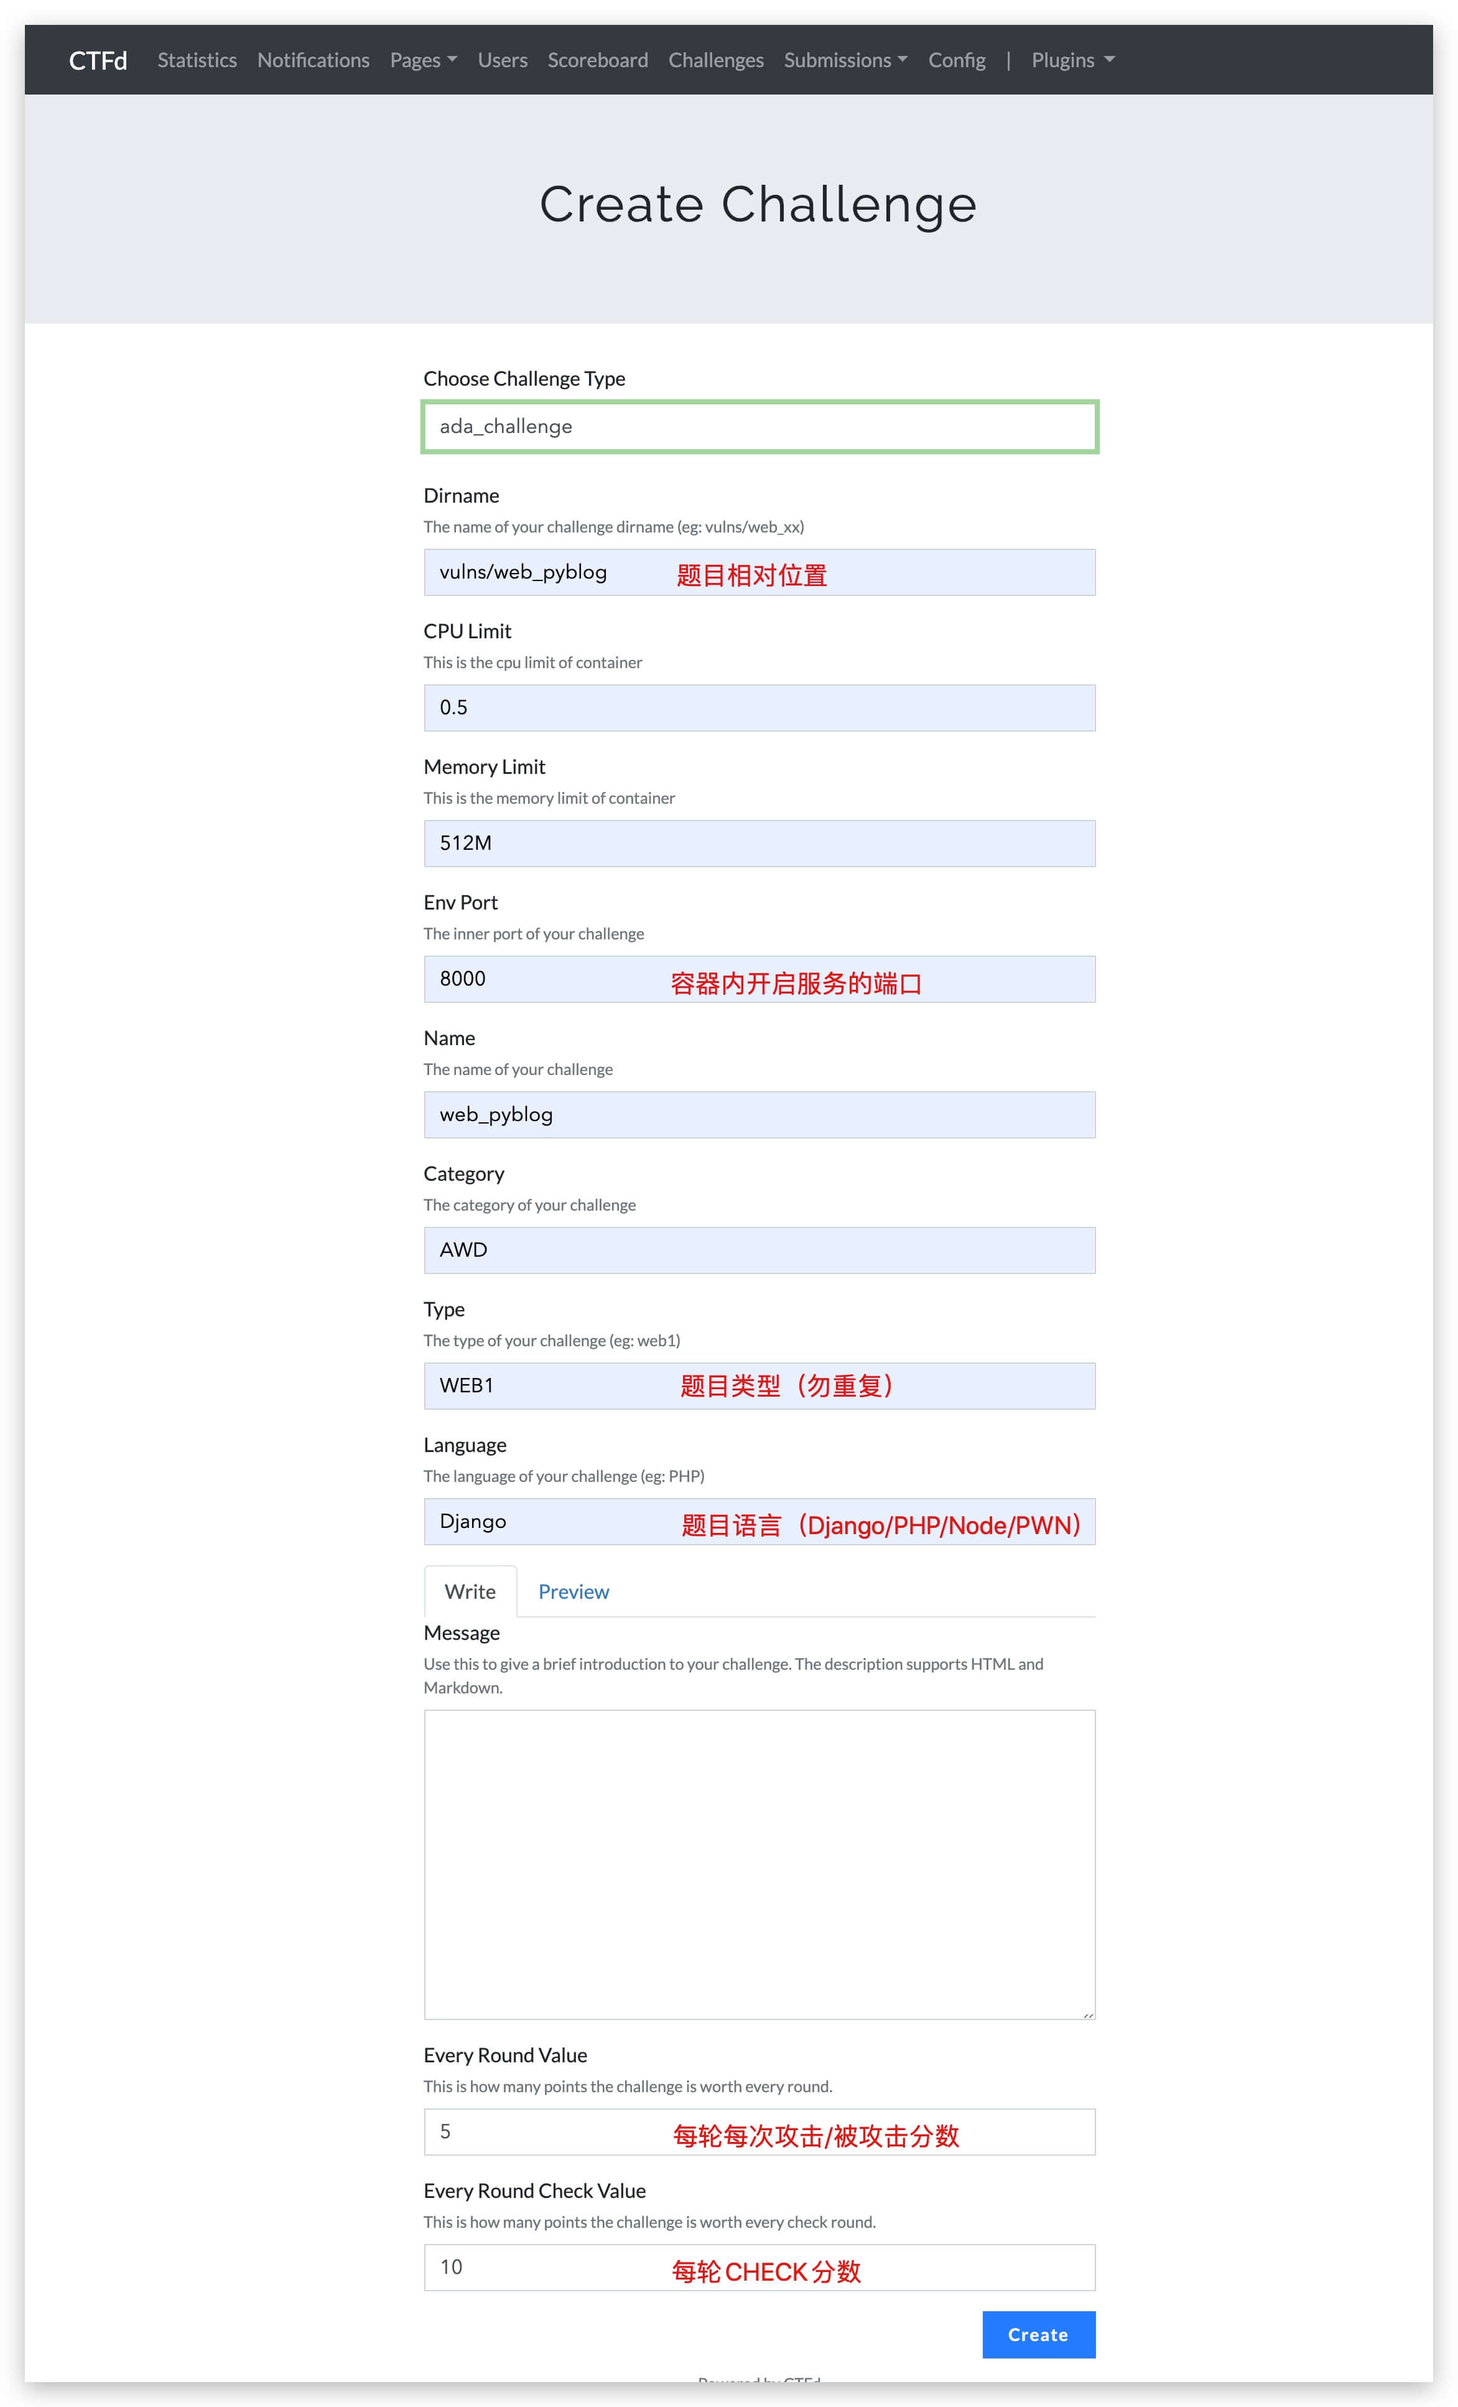
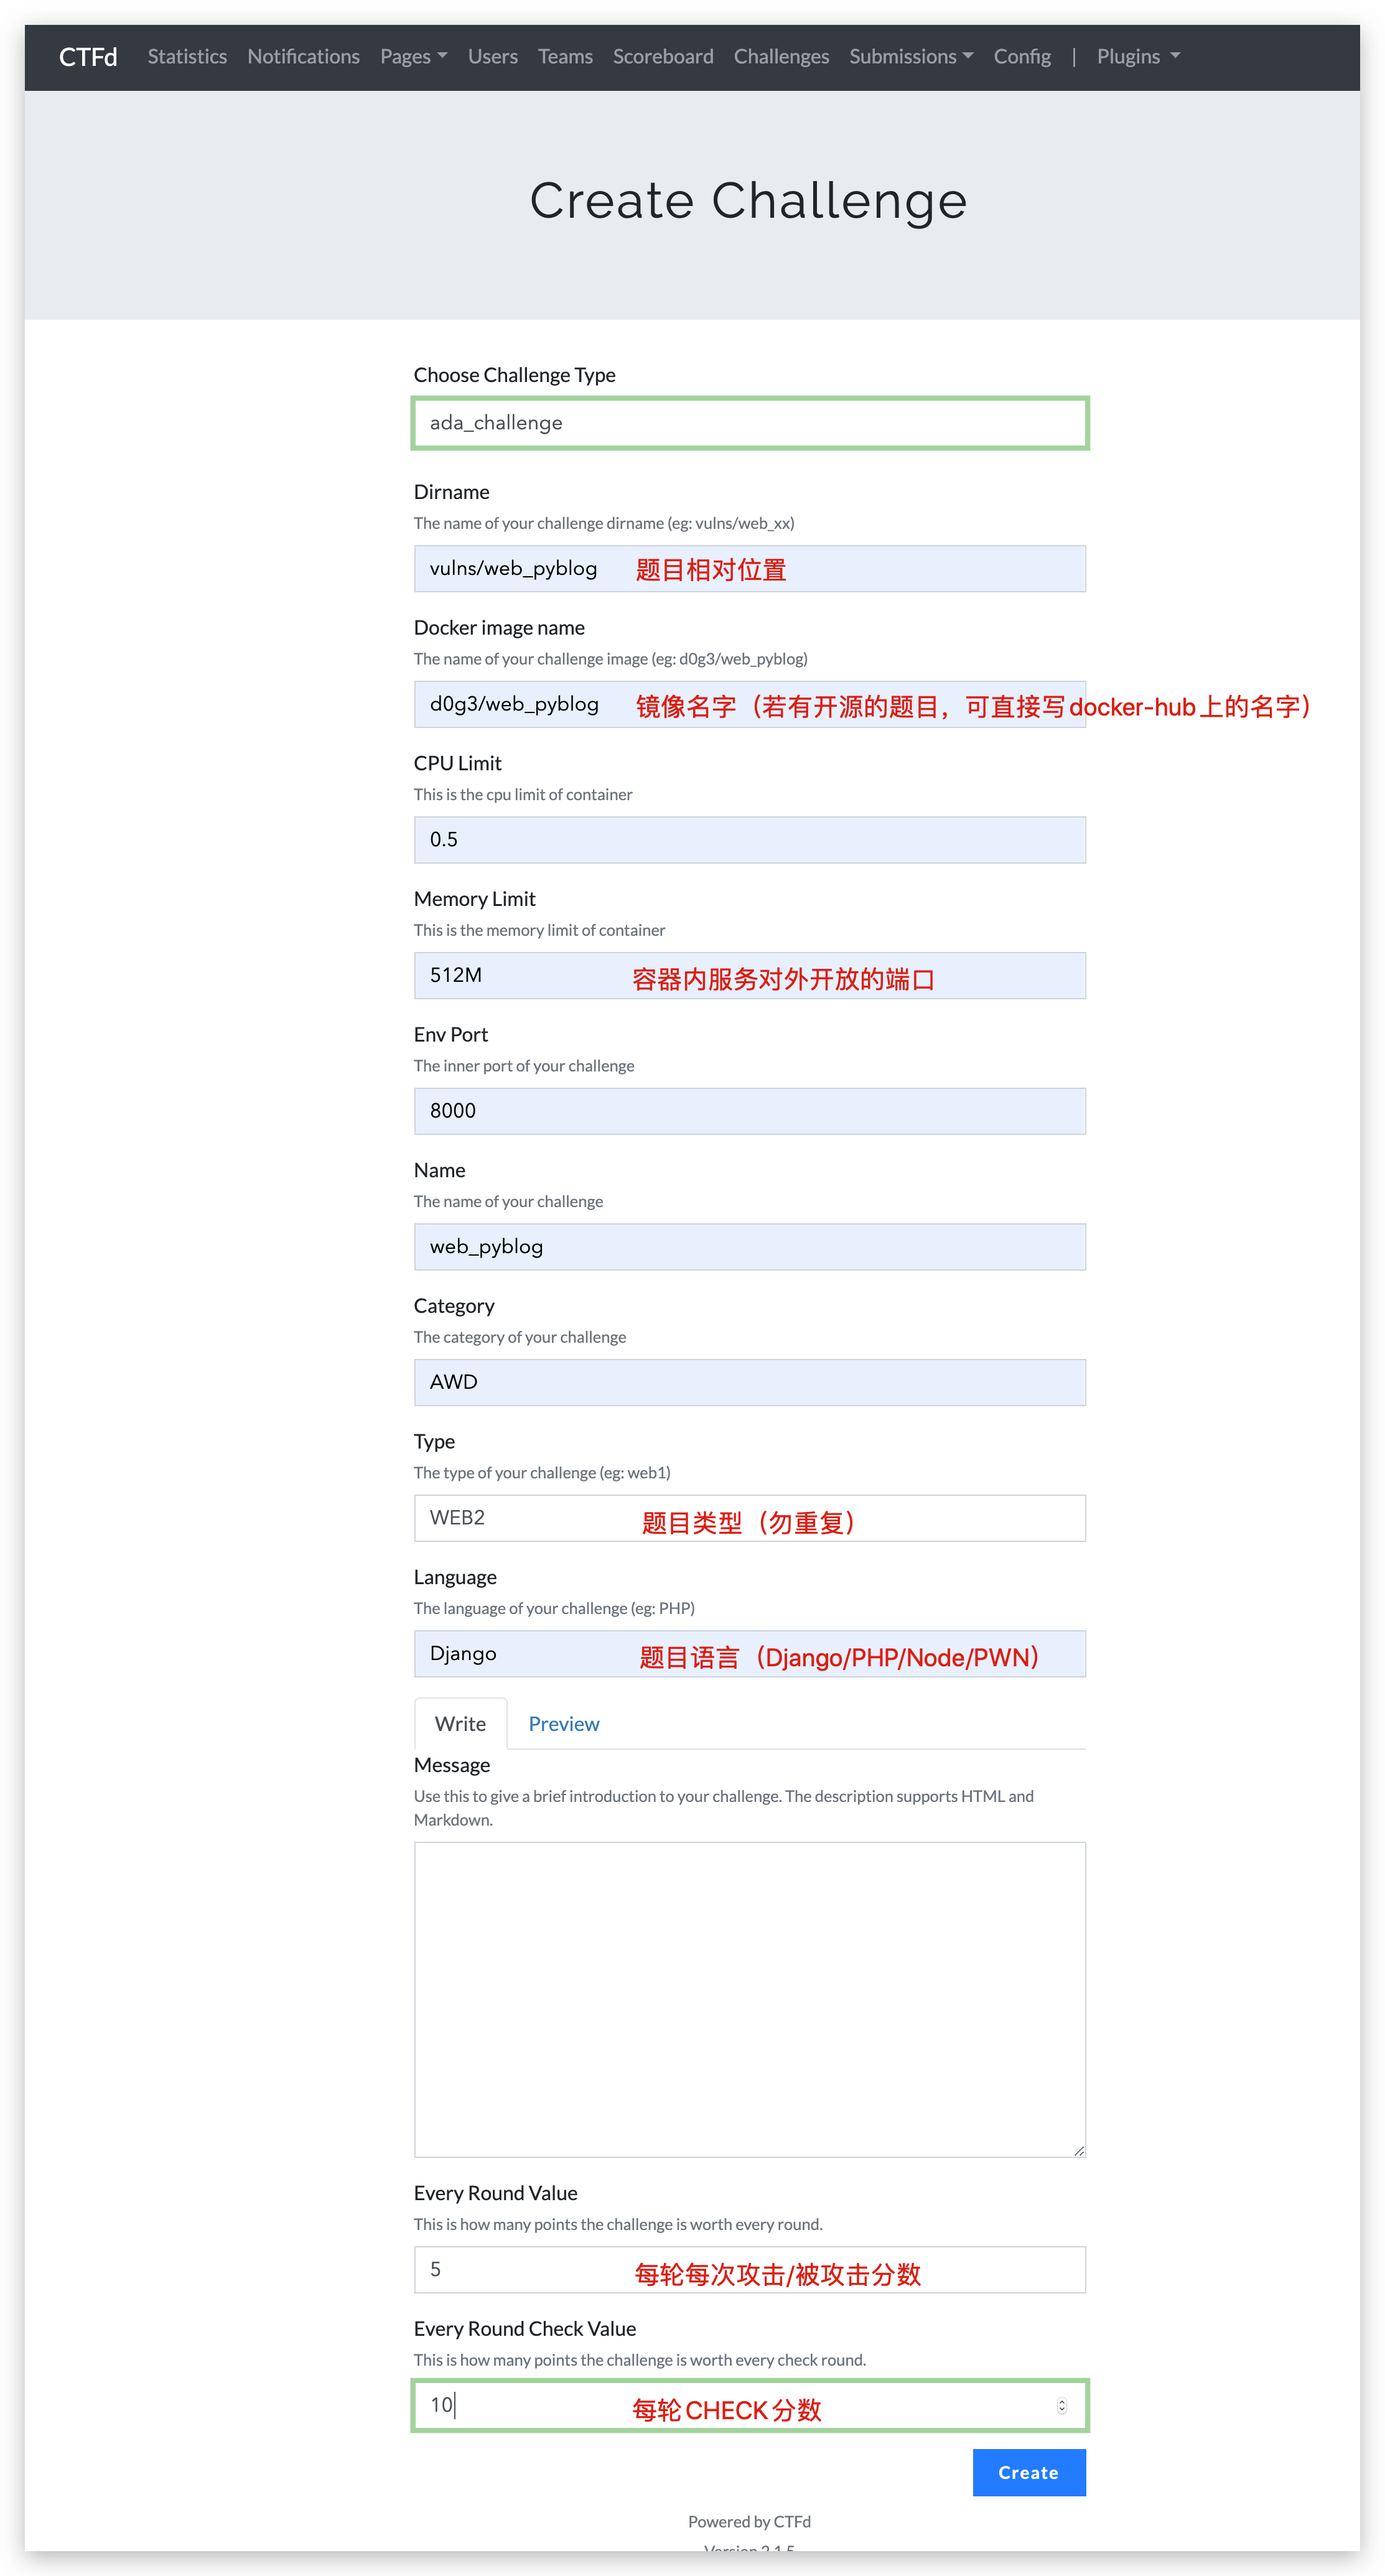
Update plugins README

diff --git a/CTFd/plugins/ctfd-owl/README.md b/CTFd/plugins/ctfd-owl/README.md
@@ -15,13 +15,13 @@ named `ctfd-owl`.
 
 ### Configuration
 
-**Docker Flag Prefix ** Flag前缀
+**Docker Flag Prefix** Flag前缀
 
 **Docker APIs URL** API名字（默认为`unix://var/run/docker.sock`）
 
 **Max Container Count** 最大容器数量（默认无限制）
 
-**Max Renewal Time** 最大容器失效时间（超过会自动关闭容器）
+**Max Renewal Time** 最大容器延长时间（超过将无法延长，达到时间后会自动摧毁）
 
 ![docker-setting-demo-w150](./assets/demo_img/owl-docker_shrink.png)
 

diff --git a/CTFd/plugins/ctfd_glowworm/README.md b/CTFd/plugins/ctfd_glowworm/README.md
@@ -38,6 +38,8 @@ named `ctfd_glowworm`.
 
 **Dirname** 题目所在文件夹（相对路径）
 
+**Docker image name** Build的image name(若有开源的题目，可直接写docker-hub上的名字)
+
 **Env Port** 容器内开放端口
 
 **Type** 题目类型（WEB1，WEB2，PWN1，PWN2）
@@ -69,3 +71,4 @@ named `ctfd_glowworm`.
 ![glowworm-targets-w150](./assets/demo_img/glowworm-targets_shrink.jpg)
 
 ![glowworm-attacks-w150](./assets/demo_img/glowworm-attacks_shrink.jpg)
+
